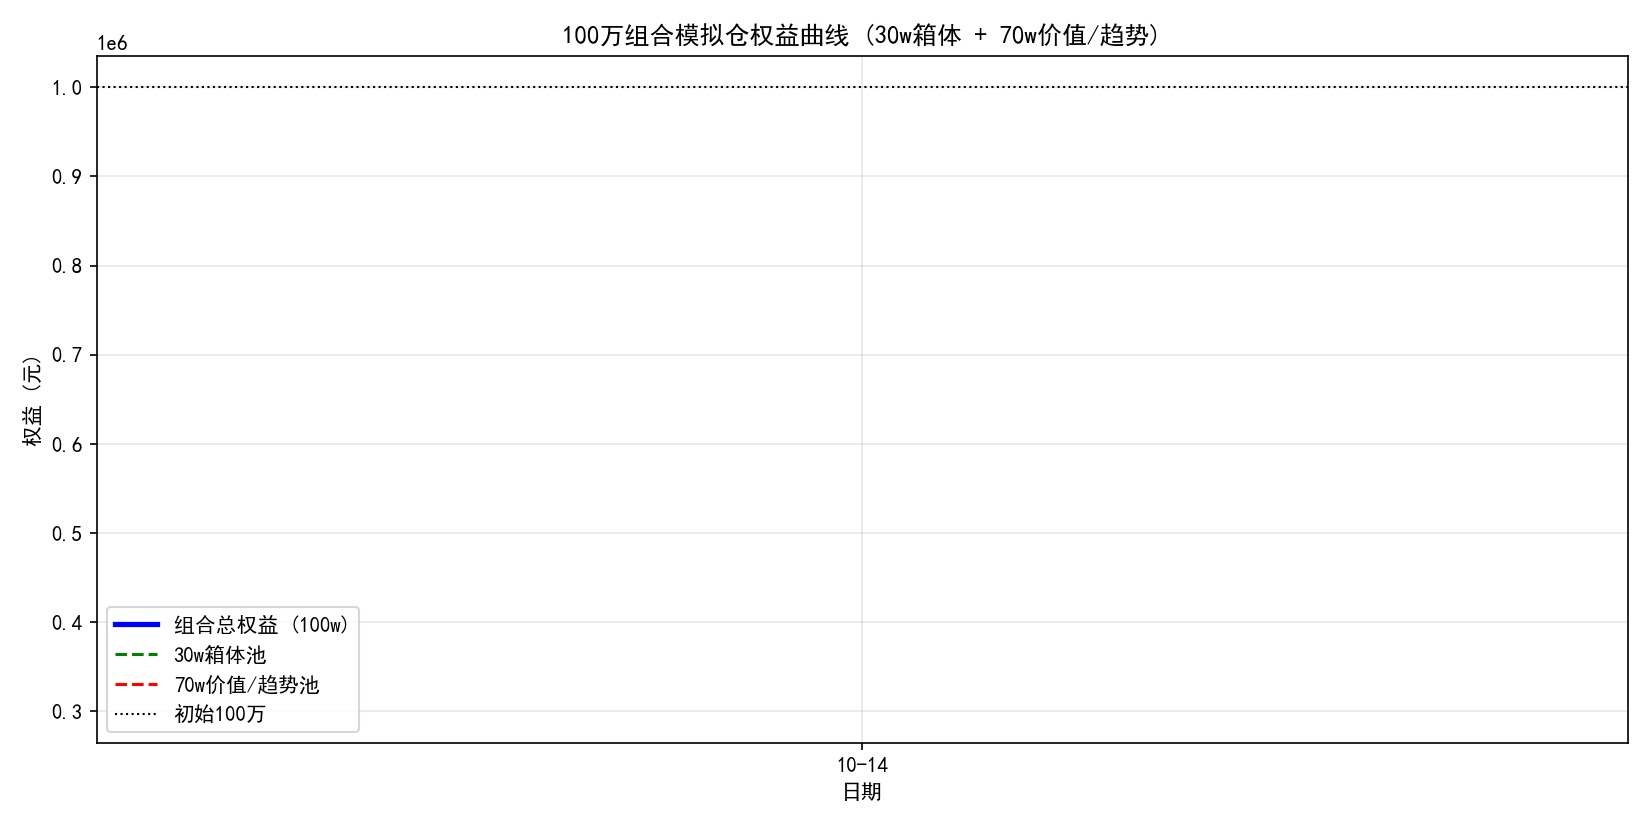
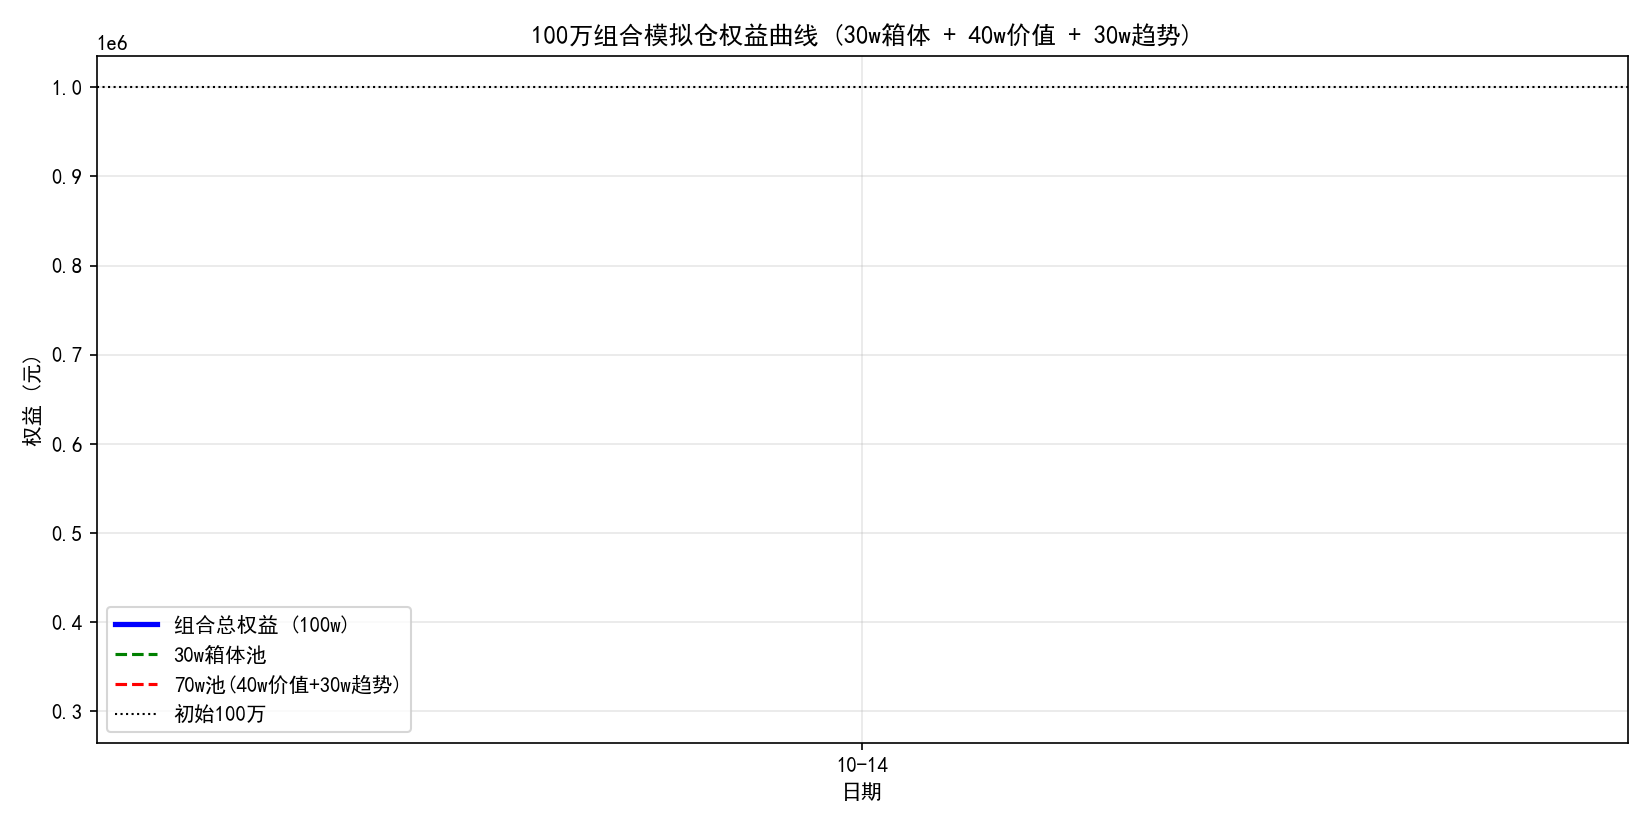
reports: 2026-10-14 自动更新

Changed region(s): [[0.3091, 0.0303, 0.7109, 0.0606], [0.1236, 0.8182, 0.2473, 0.8485], [0.2164, 0.7273, 0.2473, 0.7576]]

diff --git a/custom/数据掘金/2026-10-14-DrX-100万组合模拟仓.html b/custom/数据掘金/2026-10-14-DrX-100万组合模拟仓.html
@@ -14,7 +14,7 @@
 <h1>DrX-100万组合模拟仓</h1>
 <p><strong>DrX Quantitative Research</strong> · 2026年10月14日 · 每日收盘后更新</p>
 <blockquote>
-<p>100 万元虚拟资金组合：30w 箱体均值回归池 + 70w 价值/趋势池。基于 boxreg 策略的机械化模拟交易。</p>
+<p>100 万元虚拟资金组合：30w 箱体均值回归池 + 40w 价值池 + 30w 趋势池。基于 boxreg 策略的机械化模拟交易。</p>
 </blockquote>
 <h2>一、组合结构</h2>
 <table>
@@ -34,20 +34,20 @@
 <td>箱体下沿低吸，T+1 分步建仓，三阶止盈</td>
 </tr>
 <tr>
-<td>70w 价值池</td>
+<td>40w 价值池</td>
 <td>400,000</td>
 <td>长江电力、紫金矿业、药明康德、汇川技术、阳光电源、百济神州</td>
-<td>上升通道回踩 -1σ/-2σ 低吸</td>
+<td>上升通道回踩 -1σ/-2σ 低吸，中长线持有</td>
 </tr>
 <tr>
-<td>70w 突破池</td>
+<td>30w 趋势池</td>
 <td>300,000</td>
 <td>中际旭创、亨通光电、中芯国际、兆易创新、佰维存储、澜起科技、泽璟制药</td>
-<td>放量突破箱体上沿追击</td>
+<td>放量突破箱体上沿追击，题材主升浪</td>
 </tr>
 </tbody>
 </table>
-<p><strong>风控</strong>：每只标的独立硬止损（S4 位或 ATR 止损取严）；70w 池 v1 阶段仅记录信号与市值，暂不自动下单。</p>
+<p><strong>风控</strong>：每只标的独立硬止损（S4 位或 ATR 止损取严）；40w/30w 池 v1 阶段仅记录信号与市值，暂不自动下单。</p>
 <h2>二、启动状态（2026-10-14）</h2>
 <h3>30w 箱体池：新金路</h3>
 <ul>
@@ -55,18 +55,24 @@
 <li>信号：<strong>破位离场/观望</strong>，不买入</li>
 <li>资金：300,000.00（现金），持仓 0 股</li>
 </ul>
-<h3>70w 池：首次扫描</h3>
+<h3>40w 价值池：首次扫描</h3>
 <ul>
 <li>长江电力 (600900.SH)：现价 29.15，箱体 [27.93~28.84]，Box 位置 1.34 → <strong>分批止盈区</strong>，不追高</li>
-<li>其余 12 只：Tushare 接口限频，扫描待晚间重试</li>
+<li>其余 5 只：Tushare 接口限频，扫描待晚间重试</li>
+</ul>
+<h3>30w 趋势池：首次扫描</h3>
+<ul>
+<li>7 只标的：Tushare 接口限频，扫描待晚间重试（已加本地缓存+重试退避，下次大幅减少调用）</li>
 </ul>
 <p><strong>组合权益</strong>：1,000,000.00（初始）</p>
 <p><img alt="100万组合权益曲线" src="portfolio100w_equity.png" /></p>
+<p><em>30w 箱体池 + 40w 价值池 + 30w 趋势池 = 100w</em></p>
 <h2>三、每日记录</h2>
 <h3>2026-10-14（启动日）</h3>
 <ul>
-<li>30w：新金路破位，空仓观望</li>
-<li>70w：长江电力处止盈区；其余待扫描</li>
+<li>30w 箱体池：新金路破位，空仓观望</li>
+<li>40w 价值池：长江电力处止盈区；其余 5 只待扫描</li>
+<li>30w 趋势池：7 只待扫描</li>
 <li>组合权益：1,000,000.00（+0.00%）</li>
 </ul>
 <hr />

diff --git a/custom/数据掘金/2026-10-14-DrX-100万组合模拟仓.md b/custom/数据掘金/2026-10-14-DrX-100万组合模拟仓.md
@@ -2,17 +2,17 @@
 
 **DrX Quantitative Research** · 2026年10月14日 · 每日收盘后更新
 
-> 100 万元虚拟资金组合：30w 箱体均值回归池 + 70w 价值/趋势池。基于 boxreg 策略的机械化模拟交易。
+> 100 万元虚拟资金组合：30w 箱体均值回归池 + 40w 价值池 + 30w 趋势池。基于 boxreg 策略的机械化模拟交易。
 
 ## 一、组合结构
 
 | 资金池 | 金额 | 标的 | 策略 |
 |---|---|---|---|
 | 30w 箱体池 | 300,000 | 新金路 (000510.SZ) | 箱体下沿低吸，T+1 分步建仓，三阶止盈 |
-| 70w 价值池 | 400,000 | 长江电力、紫金矿业、药明康德、汇川技术、阳光电源、百济神州 | 上升通道回踩 -1σ/-2σ 低吸 |
-| 70w 突破池 | 300,000 | 中际旭创、亨通光电、中芯国际、兆易创新、佰维存储、澜起科技、泽璟制药 | 放量突破箱体上沿追击 |
+| 40w 价值池 | 400,000 | 长江电力、紫金矿业、药明康德、汇川技术、阳光电源、百济神州 | 上升通道回踩 -1σ/-2σ 低吸，中长线持有 |
+| 30w 趋势池 | 300,000 | 中际旭创、亨通光电、中芯国际、兆易创新、佰维存储、澜起科技、泽璟制药 | 放量突破箱体上沿追击，题材主升浪 |
 
-**风控**：每只标的独立硬止损（S4 位或 ATR 止损取严）；70w 池 v1 阶段仅记录信号与市值，暂不自动下单。
+**风控**：每只标的独立硬止损（S4 位或 ATR 止损取严）；40w/30w 池 v1 阶段仅记录信号与市值，暂不自动下单。
 
 ## 二、启动状态（2026-10-14）
 
@@ -21,19 +21,25 @@
 - 信号：**破位离场/观望**，不买入
 - 资金：300,000.00（现金），持仓 0 股
 
-### 70w 池：首次扫描
+### 40w 价值池：首次扫描
 - 长江电力 (600900.SH)：现价 29.15，箱体 [27.93~28.84]，Box 位置 1.34 → **分批止盈区**，不追高
-- 其余 12 只：Tushare 接口限频，扫描待晚间重试
+- 其余 5 只：Tushare 接口限频，扫描待晚间重试
+
+### 30w 趋势池：首次扫描
+- 7 只标的：Tushare 接口限频，扫描待晚间重试（已加本地缓存+重试退避，下次大幅减少调用）
 
 **组合权益**：1,000,000.00（初始）
 
 ![100万组合权益曲线](portfolio100w_equity.png)
 
+*30w 箱体池 + 40w 价值池 + 30w 趋势池 = 100w*
+
 ## 三、每日记录
 
 ### 2026-10-14（启动日）
-- 30w：新金路破位，空仓观望
-- 70w：长江电力处止盈区；其余待扫描
+- 30w 箱体池：新金路破位，空仓观望
+- 40w 价值池：长江电力处止盈区；其余 5 只待扫描
+- 30w 趋势池：7 只待扫描
 - 组合权益：1,000,000.00（+0.00%）
 
 ---
